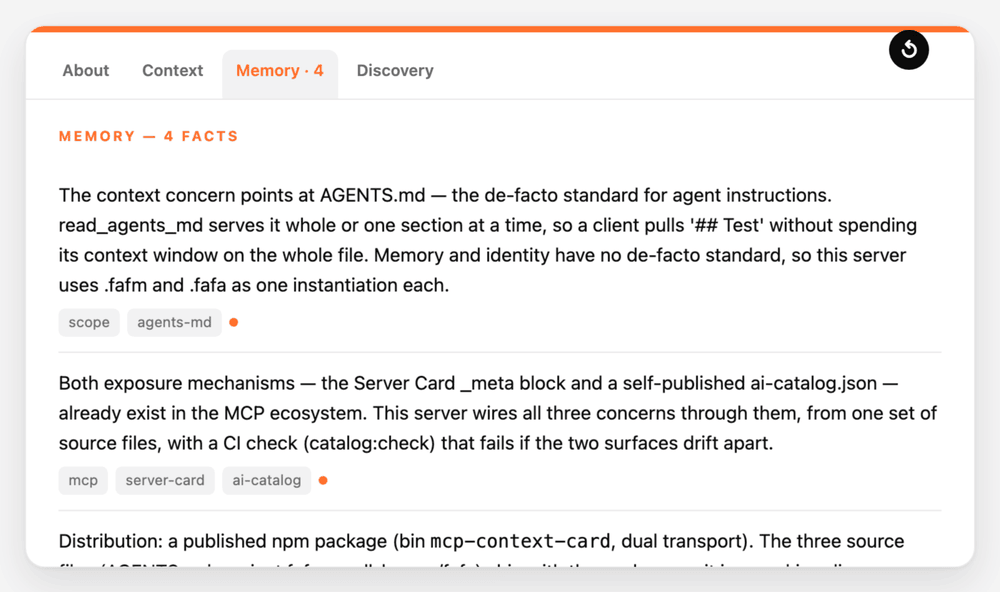
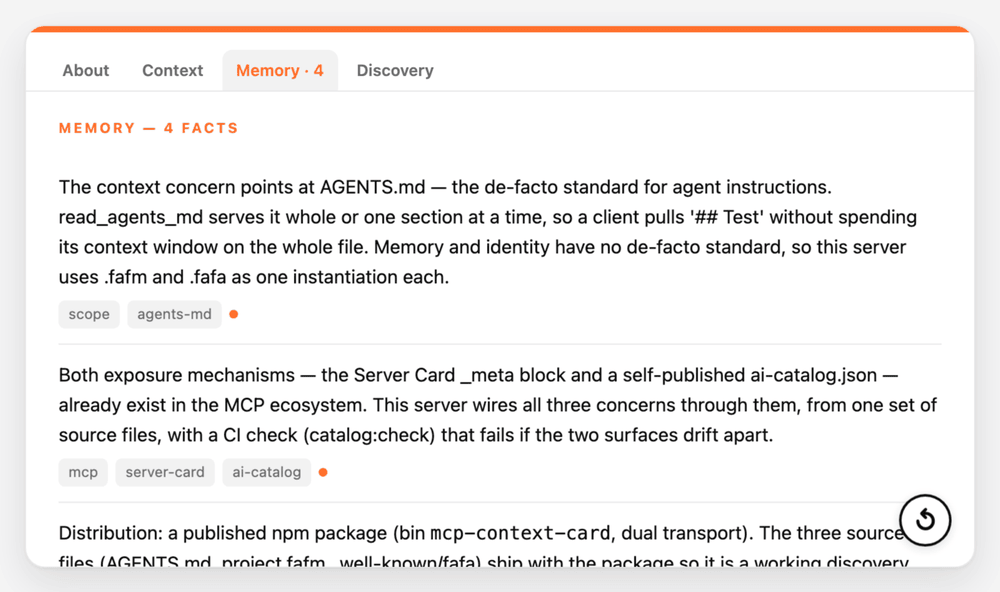
feat(card): the back's flip sits where the front's does, inverted
Same bottom-right spot on both faces; the back's is the inverse (card fill,
ink ring, ↺), its tooltip opens into the card. The back's content keeps
room at the bottom so the button never covers it.

diff --git a/docs/card-dark.html b/docs/card-dark.html
@@ -77,16 +77,14 @@ h1{margin:0;font-size:2.1rem;line-height:1.15;letter-spacing:-.025em}
   transition:transform .2s ease}
 .flipbtn span{font-size:1.3rem;line-height:1;font-weight:700}
 
-.tabbar .flipbtn.back-btn{position:relative;margin:0 0 7px auto;width:32px;height:32px;padding:0;border-radius:50%;
-  color:var(--card);background:var(--fg);box-shadow:none}
+/* the back's button: same spot as the front's, inverted (card fill, ink ring and arrow) */
+.flipbtn.back-btn{color:var(--fg);background:var(--card);box-shadow:inset 0 0 0 2px var(--fg),0 2px 8px rgba(0,0,0,.12)}
 /* fast tooltip: shows at once on hover or keyboard focus (a title tooltip waits ~1 s) */
 .flipbtn[data-tip]::after{content:attr(data-tip);position:absolute;right:0;bottom:calc(100% + 8px);white-space:nowrap;
   font:600 .74rem/1 -apple-system,BlinkMacSystemFont,"Segoe UI",Roboto,sans-serif;letter-spacing:0;padding:6px 9px;border-radius:7px;
   color:var(--card);background:var(--fg);opacity:0;transform:translateY(3px);pointer-events:none;transition:opacity .08s,transform .08s}
 .flipbtn[data-tip]:hover::after,#flip:focus-visible~.stage .flipbtn[data-tip]::after{opacity:1;transform:none}
-.tabbar .flipbtn.back-btn::after{bottom:auto;top:calc(100% + 8px)}
 .flipbtn:hover{transform:none}.flipbtn:hover span{transform:rotate(-25deg)}.flipbtn span{transition:transform .2s ease}
-.tabbar .flipbtn.back-btn span{font-size:1.05rem}
 .whatis{position:absolute;top:16px;right:16px;z-index:5}
 .whatis>summary{position:static;list-style:none}
 .whatis>summary::-webkit-details-marker{display:none}
@@ -98,7 +96,7 @@ h1{margin:0;font-size:2.1rem;line-height:1.15;letter-spacing:-.025em}
 .tabbar{display:flex;flex-wrap:wrap;gap:4px;padding:14px 18px 0;border-bottom:1px solid var(--line);border-top:5px solid var(--accent)}
 .tabbar label{cursor:pointer;font-size:.8rem;font-weight:600;color:var(--muted);padding:6px 11px;border-radius:8px 8px 0 0}
 .tabbar label:hover{color:var(--fg)}
-.panes{flex:1;overflow:auto;padding:20px 26px 28px}
+.panes{flex:1;overflow:auto;padding:20px 26px 72px}
 .pane{display:none}
 #t-about:checked~.panes .p-about,#t-skills:checked~.panes .p-skills,#t-context:checked~.panes .p-context,
 #t-memory:checked~.panes .p-memory,#t-discovery:checked~.panes .p-discovery{display:block}
@@ -219,7 +217,7 @@ details.ctx-section>.md{padding:0 0 16px}
       </section>
       <section class="face back">
         <input type="radio" name="tab" id="t-about" class="sr" checked><input type="radio" name="tab" id="t-context" class="sr"><input type="radio" name="tab" id="t-memory" class="sr"><input type="radio" name="tab" id="t-discovery" class="sr">
-        <div class="tabbar"><label for="t-about">About</label><label for="t-context">Context</label><label for="t-memory">Memory · 4</label><label for="t-discovery">Discovery</label><label for="flip" class="flipbtn back-btn" data-tip="Flip back" aria-label="Flip back"><span aria-hidden="true">↺</span></label></div>
+        <div class="tabbar"><label for="t-about">About</label><label for="t-context">Context</label><label for="t-memory">Memory · 4</label><label for="t-discovery">Discovery</label></div>
         <div class="panes"><div class="pane p-about"><p class="label">About</p><p class="lead">The essential MCP components for a project's context (AGENTS.md), cross-session memory, and identity — a base MCP on its own, or a drop-in extension for any existing MCP server, discoverable through the Server Card _meta block and a self-published ai-catalog.json.</p><table class="kv"><tbody><tr><th>Agent ID</th><td><code>urn:air:faf.one:agent:mcp-context-card</code></td></tr><tr><th>Publisher</th><td>io.github.Wolfe-Jam</td></tr><tr><th>Version</th><td>v1.5.0</td></tr><tr><th>Status</th><td>published</td></tr><tr><th>License</th><td>MIT</td></tr><tr><th>Package (npm)</th><td><code>mcp-context-card</code></td></tr></tbody></table></div><div class="pane p-context"><p class="label">Context — AGENTS.md</p><div class="ctx-nav"><ul class="toc"><li><a href="#setup">Setup</a></li><li><a href="#build">Build</a></li><li><a href="#test">Test</a></li><li><a href="#layout">Layout</a></li><li><a href="#conventions">Conventions</a></li><li><a href="#the-invariant">The invariant</a></li><li><a href="#safety">Safety</a></li><li><a href="#definition-of-done">Definition of done</a></li><li><a href="#authoring-this-file">Authoring this file</a></li></ul><button type="button" class="xall" hidden>Expand all</button></div>
     <div class="ctx-preamble md"><p><code>mcp-context-card</code> is the essential MCP server for a project's <strong>context</strong> (this file), <strong>memory</strong>, and <strong>identity</strong> — usable as your base MCP, or dropped into any existing MCP server as an extension. Discoverable to any MCP client through the two surfaces already in the ecosystem: the Server Card <code>_meta</code> block and <code>ai-catalog.json</code> sibling entries.</p>
 <p><code>read_agents_md</code> serves this file, section by section, over the same MCP connection.</p></div>
@@ -235,6 +233,7 @@ npm run faf:check     # project.faf / project.fafm / .well-known/fafa still desc
       <code>mcp-context-card://server-card</code> resource; over <b>HTTP</b> also
       from <code>GET /mcp/server-card</code> and
       <code>GET /.well-known/ai-catalog.json</code>.</p></div></div>
+        <label for="flip" class="flipbtn back-btn" data-tip="Flip back" aria-label="Flip back"><span aria-hidden="true">↺</span></label>
       </section>
     </div>
   </main>

diff --git a/docs/card-light.html b/docs/card-light.html
@@ -77,16 +77,14 @@ h1{margin:0;font-size:2.1rem;line-height:1.15;letter-spacing:-.025em}
   transition:transform .2s ease}
 .flipbtn span{font-size:1.3rem;line-height:1;font-weight:700}
 
-.tabbar .flipbtn.back-btn{position:relative;margin:0 0 7px auto;width:32px;height:32px;padding:0;border-radius:50%;
-  color:var(--card);background:var(--fg);box-shadow:none}
+/* the back's button: same spot as the front's, inverted (card fill, ink ring and arrow) */
+.flipbtn.back-btn{color:var(--fg);background:var(--card);box-shadow:inset 0 0 0 2px var(--fg),0 2px 8px rgba(0,0,0,.12)}
 /* fast tooltip: shows at once on hover or keyboard focus (a title tooltip waits ~1 s) */
 .flipbtn[data-tip]::after{content:attr(data-tip);position:absolute;right:0;bottom:calc(100% + 8px);white-space:nowrap;
   font:600 .74rem/1 -apple-system,BlinkMacSystemFont,"Segoe UI",Roboto,sans-serif;letter-spacing:0;padding:6px 9px;border-radius:7px;
   color:var(--card);background:var(--fg);opacity:0;transform:translateY(3px);pointer-events:none;transition:opacity .08s,transform .08s}
 .flipbtn[data-tip]:hover::after,#flip:focus-visible~.stage .flipbtn[data-tip]::after{opacity:1;transform:none}
-.tabbar .flipbtn.back-btn::after{bottom:auto;top:calc(100% + 8px)}
 .flipbtn:hover{transform:none}.flipbtn:hover span{transform:rotate(-25deg)}.flipbtn span{transition:transform .2s ease}
-.tabbar .flipbtn.back-btn span{font-size:1.05rem}
 .whatis{position:absolute;top:16px;right:16px;z-index:5}
 .whatis>summary{position:static;list-style:none}
 .whatis>summary::-webkit-details-marker{display:none}
@@ -98,7 +96,7 @@ h1{margin:0;font-size:2.1rem;line-height:1.15;letter-spacing:-.025em}
 .tabbar{display:flex;flex-wrap:wrap;gap:4px;padding:14px 18px 0;border-bottom:1px solid var(--line);border-top:5px solid var(--accent)}
 .tabbar label{cursor:pointer;font-size:.8rem;font-weight:600;color:var(--muted);padding:6px 11px;border-radius:8px 8px 0 0}
 .tabbar label:hover{color:var(--fg)}
-.panes{flex:1;overflow:auto;padding:20px 26px 28px}
+.panes{flex:1;overflow:auto;padding:20px 26px 72px}
 .pane{display:none}
 #t-about:checked~.panes .p-about,#t-skills:checked~.panes .p-skills,#t-context:checked~.panes .p-context,
 #t-memory:checked~.panes .p-memory,#t-discovery:checked~.panes .p-discovery{display:block}
@@ -219,7 +217,7 @@ details.ctx-section>.md{padding:0 0 16px}
       </section>
       <section class="face back">
         <input type="radio" name="tab" id="t-about" class="sr" checked><input type="radio" name="tab" id="t-context" class="sr"><input type="radio" name="tab" id="t-memory" class="sr"><input type="radio" name="tab" id="t-discovery" class="sr">
-        <div class="tabbar"><label for="t-about">About</label><label for="t-context">Context</label><label for="t-memory">Memory · 4</label><label for="t-discovery">Discovery</label><label for="flip" class="flipbtn back-btn" data-tip="Flip back" aria-label="Flip back"><span aria-hidden="true">↺</span></label></div>
+        <div class="tabbar"><label for="t-about">About</label><label for="t-context">Context</label><label for="t-memory">Memory · 4</label><label for="t-discovery">Discovery</label></div>
         <div class="panes"><div class="pane p-about"><p class="label">About</p><p class="lead">The essential MCP components for a project's context (AGENTS.md), cross-session memory, and identity — a base MCP on its own, or a drop-in extension for any existing MCP server, discoverable through the Server Card _meta block and a self-published ai-catalog.json.</p><table class="kv"><tbody><tr><th>Agent ID</th><td><code>urn:air:faf.one:agent:mcp-context-card</code></td></tr><tr><th>Publisher</th><td>io.github.Wolfe-Jam</td></tr><tr><th>Version</th><td>v1.5.0</td></tr><tr><th>Status</th><td>published</td></tr><tr><th>License</th><td>MIT</td></tr><tr><th>Package (npm)</th><td><code>mcp-context-card</code></td></tr></tbody></table></div><div class="pane p-context"><p class="label">Context — AGENTS.md</p><div class="ctx-nav"><ul class="toc"><li><a href="#setup">Setup</a></li><li><a href="#build">Build</a></li><li><a href="#test">Test</a></li><li><a href="#layout">Layout</a></li><li><a href="#conventions">Conventions</a></li><li><a href="#the-invariant">The invariant</a></li><li><a href="#safety">Safety</a></li><li><a href="#definition-of-done">Definition of done</a></li><li><a href="#authoring-this-file">Authoring this file</a></li></ul><button type="button" class="xall" hidden>Expand all</button></div>
     <div class="ctx-preamble md"><p><code>mcp-context-card</code> is the essential MCP server for a project's <strong>context</strong> (this file), <strong>memory</strong>, and <strong>identity</strong> — usable as your base MCP, or dropped into any existing MCP server as an extension. Discoverable to any MCP client through the two surfaces already in the ecosystem: the Server Card <code>_meta</code> block and <code>ai-catalog.json</code> sibling entries.</p>
 <p><code>read_agents_md</code> serves this file, section by section, over the same MCP connection.</p></div>
@@ -235,6 +233,7 @@ npm run faf:check     # project.faf / project.fafm / .well-known/fafa still desc
       <code>mcp-context-card://server-card</code> resource; over <b>HTTP</b> also
       from <code>GET /mcp/server-card</code> and
       <code>GET /.well-known/ai-catalog.json</code>.</p></div></div>
+        <label for="flip" class="flipbtn back-btn" data-tip="Flip back" aria-label="Flip back"><span aria-hidden="true">↺</span></label>
       </section>
     </div>
   </main>

diff --git a/docs/card.html b/docs/card.html
@@ -77,16 +77,14 @@ h1{margin:0;font-size:2.1rem;line-height:1.15;letter-spacing:-.025em}
   transition:transform .2s ease}
 .flipbtn span{font-size:1.3rem;line-height:1;font-weight:700}
 
-.tabbar .flipbtn.back-btn{position:relative;margin:0 0 7px auto;width:32px;height:32px;padding:0;border-radius:50%;
-  color:var(--card);background:var(--fg);box-shadow:none}
+/* the back's button: same spot as the front's, inverted (card fill, ink ring and arrow) */
+.flipbtn.back-btn{color:var(--fg);background:var(--card);box-shadow:inset 0 0 0 2px var(--fg),0 2px 8px rgba(0,0,0,.12)}
 /* fast tooltip: shows at once on hover or keyboard focus (a title tooltip waits ~1 s) */
 .flipbtn[data-tip]::after{content:attr(data-tip);position:absolute;right:0;bottom:calc(100% + 8px);white-space:nowrap;
   font:600 .74rem/1 -apple-system,BlinkMacSystemFont,"Segoe UI",Roboto,sans-serif;letter-spacing:0;padding:6px 9px;border-radius:7px;
   color:var(--card);background:var(--fg);opacity:0;transform:translateY(3px);pointer-events:none;transition:opacity .08s,transform .08s}
 .flipbtn[data-tip]:hover::after,#flip:focus-visible~.stage .flipbtn[data-tip]::after{opacity:1;transform:none}
-.tabbar .flipbtn.back-btn::after{bottom:auto;top:calc(100% + 8px)}
 .flipbtn:hover{transform:none}.flipbtn:hover span{transform:rotate(-25deg)}.flipbtn span{transition:transform .2s ease}
-.tabbar .flipbtn.back-btn span{font-size:1.05rem}
 .whatis{position:absolute;top:16px;right:16px;z-index:5}
 .whatis>summary{position:static;list-style:none}
 .whatis>summary::-webkit-details-marker{display:none}
@@ -98,7 +96,7 @@ h1{margin:0;font-size:2.1rem;line-height:1.15;letter-spacing:-.025em}
 .tabbar{display:flex;flex-wrap:wrap;gap:4px;padding:14px 18px 0;border-bottom:1px solid var(--line);border-top:5px solid var(--accent)}
 .tabbar label{cursor:pointer;font-size:.8rem;font-weight:600;color:var(--muted);padding:6px 11px;border-radius:8px 8px 0 0}
 .tabbar label:hover{color:var(--fg)}
-.panes{flex:1;overflow:auto;padding:20px 26px 28px}
+.panes{flex:1;overflow:auto;padding:20px 26px 72px}
 .pane{display:none}
 #t-about:checked~.panes .p-about,#t-skills:checked~.panes .p-skills,#t-context:checked~.panes .p-context,
 #t-memory:checked~.panes .p-memory,#t-discovery:checked~.panes .p-discovery{display:block}
@@ -219,7 +217,7 @@ details.ctx-section>.md{padding:0 0 16px}
       </section>
       <section class="face back">
         <input type="radio" name="tab" id="t-about" class="sr" checked><input type="radio" name="tab" id="t-context" class="sr"><input type="radio" name="tab" id="t-memory" class="sr"><input type="radio" name="tab" id="t-discovery" class="sr">
-        <div class="tabbar"><label for="t-about">About</label><label for="t-context">Context</label><label for="t-memory">Memory · 4</label><label for="t-discovery">Discovery</label><label for="flip" class="flipbtn back-btn" data-tip="Flip back" aria-label="Flip back"><span aria-hidden="true">↺</span></label></div>
+        <div class="tabbar"><label for="t-about">About</label><label for="t-context">Context</label><label for="t-memory">Memory · 4</label><label for="t-discovery">Discovery</label></div>
         <div class="panes"><div class="pane p-about"><p class="label">About</p><p class="lead">The essential MCP components for a project's context (AGENTS.md), cross-session memory, and identity — a base MCP on its own, or a drop-in extension for any existing MCP server, discoverable through the Server Card _meta block and a self-published ai-catalog.json.</p><table class="kv"><tbody><tr><th>Agent ID</th><td><code>urn:air:faf.one:agent:mcp-context-card</code></td></tr><tr><th>Publisher</th><td>io.github.Wolfe-Jam</td></tr><tr><th>Version</th><td>v1.5.0</td></tr><tr><th>Status</th><td>published</td></tr><tr><th>License</th><td>MIT</td></tr><tr><th>Package (npm)</th><td><code>mcp-context-card</code></td></tr></tbody></table></div><div class="pane p-context"><p class="label">Context — AGENTS.md</p><div class="ctx-nav"><ul class="toc"><li><a href="#setup">Setup</a></li><li><a href="#build">Build</a></li><li><a href="#test">Test</a></li><li><a href="#layout">Layout</a></li><li><a href="#conventions">Conventions</a></li><li><a href="#the-invariant">The invariant</a></li><li><a href="#safety">Safety</a></li><li><a href="#definition-of-done">Definition of done</a></li><li><a href="#authoring-this-file">Authoring this file</a></li></ul><button type="button" class="xall" hidden>Expand all</button></div>
     <div class="ctx-preamble md"><p><code>mcp-context-card</code> is the essential MCP server for a project's <strong>context</strong> (this file), <strong>memory</strong>, and <strong>identity</strong> — usable as your base MCP, or dropped into any existing MCP server as an extension. Discoverable to any MCP client through the two surfaces already in the ecosystem: the Server Card <code>_meta</code> block and <code>ai-catalog.json</code> sibling entries.</p>
 <p><code>read_agents_md</code> serves this file, section by section, over the same MCP connection.</p></div>
@@ -235,6 +233,7 @@ npm run faf:check     # project.faf / project.fafm / .well-known/fafa still desc
       <code>mcp-context-card://server-card</code> resource; over <b>HTTP</b> also
       from <code>GET /mcp/server-card</code> and
       <code>GET /.well-known/ai-catalog.json</code>.</p></div></div>
+        <label for="flip" class="flipbtn back-btn" data-tip="Flip back" aria-label="Flip back"><span aria-hidden="true">↺</span></label>
       </section>
     </div>
   </main>

diff --git a/docs/index.html b/docs/index.html
@@ -77,16 +77,14 @@ h1{margin:0;font-size:2.1rem;line-height:1.15;letter-spacing:-.025em}
   transition:transform .2s ease}
 .flipbtn span{font-size:1.3rem;line-height:1;font-weight:700}
 
-.tabbar .flipbtn.back-btn{position:relative;margin:0 0 7px auto;width:32px;height:32px;padding:0;border-radius:50%;
-  color:var(--card);background:var(--fg);box-shadow:none}
+/* the back's button: same spot as the front's, inverted (card fill, ink ring and arrow) */
+.flipbtn.back-btn{color:var(--fg);background:var(--card);box-shadow:inset 0 0 0 2px var(--fg),0 2px 8px rgba(0,0,0,.12)}
 /* fast tooltip: shows at once on hover or keyboard focus (a title tooltip waits ~1 s) */
 .flipbtn[data-tip]::after{content:attr(data-tip);position:absolute;right:0;bottom:calc(100% + 8px);white-space:nowrap;
   font:600 .74rem/1 -apple-system,BlinkMacSystemFont,"Segoe UI",Roboto,sans-serif;letter-spacing:0;padding:6px 9px;border-radius:7px;
   color:var(--card);background:var(--fg);opacity:0;transform:translateY(3px);pointer-events:none;transition:opacity .08s,transform .08s}
 .flipbtn[data-tip]:hover::after,#flip:focus-visible~.stage .flipbtn[data-tip]::after{opacity:1;transform:none}
-.tabbar .flipbtn.back-btn::after{bottom:auto;top:calc(100% + 8px)}
 .flipbtn:hover{transform:none}.flipbtn:hover span{transform:rotate(-25deg)}.flipbtn span{transition:transform .2s ease}
-.tabbar .flipbtn.back-btn span{font-size:1.05rem}
 .whatis{position:absolute;top:16px;right:16px;z-index:5}
 .whatis>summary{position:static;list-style:none}
 .whatis>summary::-webkit-details-marker{display:none}
@@ -98,7 +96,7 @@ h1{margin:0;font-size:2.1rem;line-height:1.15;letter-spacing:-.025em}
 .tabbar{display:flex;flex-wrap:wrap;gap:4px;padding:14px 18px 0;border-bottom:1px solid var(--line);border-top:5px solid var(--accent)}
 .tabbar label{cursor:pointer;font-size:.8rem;font-weight:600;color:var(--muted);padding:6px 11px;border-radius:8px 8px 0 0}
 .tabbar label:hover{color:var(--fg)}
-.panes{flex:1;overflow:auto;padding:20px 26px 28px}
+.panes{flex:1;overflow:auto;padding:20px 26px 72px}
 .pane{display:none}
 #t-about:checked~.panes .p-about,#t-skills:checked~.panes .p-skills,#t-context:checked~.panes .p-context,
 #t-memory:checked~.panes .p-memory,#t-discovery:checked~.panes .p-discovery{display:block}
@@ -219,7 +217,7 @@ details.ctx-section>.md{padding:0 0 16px}
       </section>
       <section class="face back">
         <input type="radio" name="tab" id="t-about" class="sr" checked><input type="radio" name="tab" id="t-context" class="sr"><input type="radio" name="tab" id="t-memory" class="sr"><input type="radio" name="tab" id="t-discovery" class="sr">
-        <div class="tabbar"><label for="t-about">About</label><label for="t-context">Context</label><label for="t-memory">Memory · 4</label><label for="t-discovery">Discovery</label><label for="flip" class="flipbtn back-btn" data-tip="Flip back" aria-label="Flip back"><span aria-hidden="true">↺</span></label></div>
+        <div class="tabbar"><label for="t-about">About</label><label for="t-context">Context</label><label for="t-memory">Memory · 4</label><label for="t-discovery">Discovery</label></div>
         <div class="panes"><div class="pane p-about"><p class="label">About</p><p class="lead">The essential MCP components for a project's context (AGENTS.md), cross-session memory, and identity — a base MCP on its own, or a drop-in extension for any existing MCP server, discoverable through the Server Card _meta block and a self-published ai-catalog.json.</p><table class="kv"><tbody><tr><th>Agent ID</th><td><code>urn:air:faf.one:agent:mcp-context-card</code></td></tr><tr><th>Publisher</th><td>io.github.Wolfe-Jam</td></tr><tr><th>Version</th><td>v1.5.0</td></tr><tr><th>Status</th><td>published</td></tr><tr><th>License</th><td>MIT</td></tr><tr><th>Package (npm)</th><td><code>mcp-context-card</code></td></tr></tbody></table></div><div class="pane p-context"><p class="label">Context — AGENTS.md</p><div class="ctx-nav"><ul class="toc"><li><a href="#setup">Setup</a></li><li><a href="#build">Build</a></li><li><a href="#test">Test</a></li><li><a href="#layout">Layout</a></li><li><a href="#conventions">Conventions</a></li><li><a href="#the-invariant">The invariant</a></li><li><a href="#safety">Safety</a></li><li><a href="#definition-of-done">Definition of done</a></li><li><a href="#authoring-this-file">Authoring this file</a></li></ul><button type="button" class="xall" hidden>Expand all</button></div>
     <div class="ctx-preamble md"><p><code>mcp-context-card</code> is the essential MCP server for a project's <strong>context</strong> (this file), <strong>memory</strong>, and <strong>identity</strong> — usable as your base MCP, or dropped into any existing MCP server as an extension. Discoverable to any MCP client through the two surfaces already in the ecosystem: the Server Card <code>_meta</code> block and <code>ai-catalog.json</code> sibling entries.</p>
 <p><code>read_agents_md</code> serves this file, section by section, over the same MCP connection.</p></div>
@@ -235,6 +233,7 @@ npm run faf:check     # project.faf / project.fafm / .well-known/fafa still desc
       <code>mcp-context-card://server-card</code> resource; over <b>HTTP</b> also
       from <code>GET /mcp/server-card</code> and
       <code>GET /.well-known/ai-catalog.json</code>.</p></div></div>
+        <label for="flip" class="flipbtn back-btn" data-tip="Flip back" aria-label="Flip back"><span aria-hidden="true">↺</span></label>
       </section>
     </div>
   </main>

diff --git a/src/render-card.ts b/src/render-card.ts
@@ -121,16 +121,14 @@ h1{margin:0;font-size:2.1rem;line-height:1.15;letter-spacing:-.025em}
   transition:transform .2s ease}
 .flipbtn span{font-size:1.3rem;line-height:1;font-weight:700}
 
-.tabbar .flipbtn.back-btn{position:relative;margin:0 0 7px auto;width:32px;height:32px;padding:0;border-radius:50%;
-  color:var(--card);background:var(--fg);box-shadow:none}
+/* the back's button: same spot as the front's, inverted (card fill, ink ring and arrow) */
+.flipbtn.back-btn{color:var(--fg);background:var(--card);box-shadow:inset 0 0 0 2px var(--fg),0 2px 8px rgba(0,0,0,.12)}
 /* fast tooltip: shows at once on hover or keyboard focus (a title tooltip waits ~1 s) */
 .flipbtn[data-tip]::after{content:attr(data-tip);position:absolute;right:0;bottom:calc(100% + 8px);white-space:nowrap;
   font:600 .74rem/1 -apple-system,BlinkMacSystemFont,"Segoe UI",Roboto,sans-serif;letter-spacing:0;padding:6px 9px;border-radius:7px;
   color:var(--card);background:var(--fg);opacity:0;transform:translateY(3px);pointer-events:none;transition:opacity .08s,transform .08s}
 .flipbtn[data-tip]:hover::after,#flip:focus-visible~.stage .flipbtn[data-tip]::after{opacity:1;transform:none}
-.tabbar .flipbtn.back-btn::after{bottom:auto;top:calc(100% + 8px)}
 .flipbtn:hover{transform:none}.flipbtn:hover span{transform:rotate(-25deg)}.flipbtn span{transition:transform .2s ease}
-.tabbar .flipbtn.back-btn span{font-size:1.05rem}
 .whatis{position:absolute;top:16px;right:16px;z-index:5}
 .whatis>summary{position:static;list-style:none}
 .whatis>summary::-webkit-details-marker{display:none}
@@ -142,7 +140,7 @@ h1{margin:0;font-size:2.1rem;line-height:1.15;letter-spacing:-.025em}
 .tabbar{display:flex;flex-wrap:wrap;gap:4px;padding:14px 18px 0;border-bottom:1px solid var(--line);border-top:5px solid var(--accent)}
 .tabbar label{cursor:pointer;font-size:.8rem;font-weight:600;color:var(--muted);padding:6px 11px;border-radius:8px 8px 0 0}
 .tabbar label:hover{color:var(--fg)}
-.panes{flex:1;overflow:auto;padding:20px 26px 28px}
+.panes{flex:1;overflow:auto;padding:20px 26px 72px}
 .pane{display:none}
 #t-about:checked~.panes .p-about,#t-skills:checked~.panes .p-skills,#t-context:checked~.panes .p-context,
 #t-memory:checked~.panes .p-memory,#t-discovery:checked~.panes .p-discovery{display:block}
@@ -445,8 +443,9 @@ export function renderCard(root: string, opts: CardOptions = {}): string {
       </section>
       <section class="face back">
         ${radios}
-        <div class="tabbar">${tabbar}<label for="flip" class="flipbtn back-btn" data-tip="Flip back" aria-label="Flip back"><span aria-hidden="true">↺</span></label></div>
+        <div class="tabbar">${tabbar}</div>
         <div class="panes">${panes}</div>
+        <label for="flip" class="flipbtn back-btn" data-tip="Flip back" aria-label="Flip back"><span aria-hidden="true">↺</span></label>
       </section>
     </div>
   </main>
